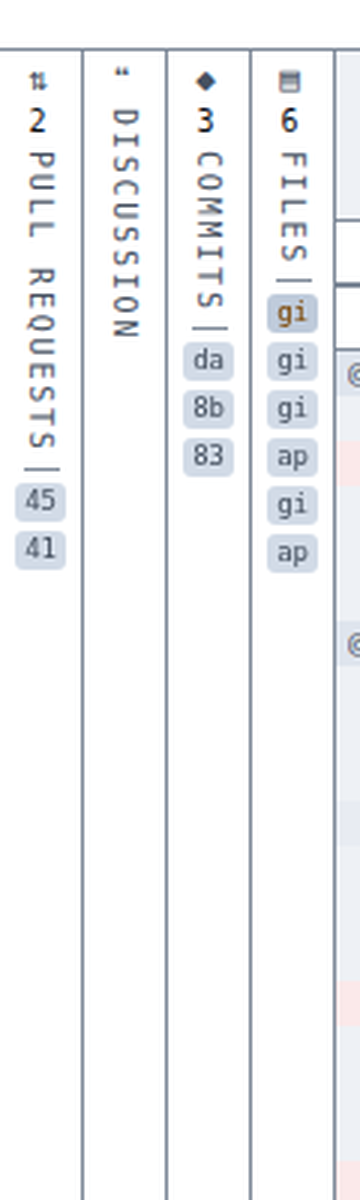
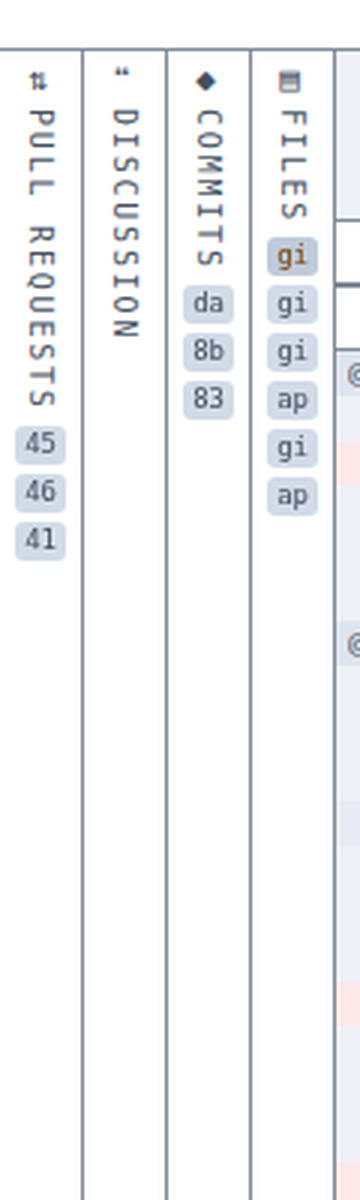
Drop counts and the divider from column labels
Claude-Session: https://claude.ai/code/session_0138uV19y78iem38GcWDdoBK

Changed region(s): [[0.7333, 0.0617, 0.8861, 0.4933], [0.0306, 0.0617, 0.1833, 0.4933], [0.4889, 0.0617, 0.6722, 0.4008]]

diff --git a/src/features/pull-requests/ResizableColumn.tsx b/src/features/pull-requests/ResizableColumn.tsx
@@ -1,7 +1,6 @@
 'use client';
 
 import { useCallback, type PointerEvent as ReactPointerEvent, type ReactNode } from 'react';
-import { plural } from './ColumnPreview';
 import { SelectableRow } from '@/features/surface-ui/SelectableRow';
 
 const MIN_WIDTH = 140;
@@ -46,16 +45,12 @@ export function DragHandle({ onPointerDown }: { onPointerDown: (event: ReactPoin
 }
 
 export function CollapsedColumn({
-  noun,
-  label,
-  count,
+  title,
   icon,
   preview,
   onExpand,
 }: {
-  noun: string;
-  label: string;
-  count?: number;
+  title: string;
   icon: string;
   preview?: ReactNode;
   onExpand: () => void;
@@ -64,24 +59,23 @@ export function CollapsedColumn({
     <button
       type="button"
       onClick={onExpand}
-      aria-label={`Expand ${label}`}
+      aria-label={`Expand ${title}`}
       className="flex w-7 min-h-0 shrink-0 flex-col items-center gap-1 border-r border-panel-edge bg-panel py-1 text-[10px] uppercase tracking-[0.18em] text-ink-dim hover:bg-btn-hover hover:text-ink"
     >
       <span aria-hidden className="shrink-0 text-[11px] leading-none">{icon}</span>
-      {count !== undefined && <span className="shrink-0 text-[10px] leading-none tabular-nums text-ink">{count}</span>}
-      <span className="max-h-[40%] shrink-0 overflow-hidden [writing-mode:vertical-rl]">{noun}</span>
+      <span className="max-h-[40%] shrink-0 overflow-hidden [writing-mode:vertical-rl]">{title}</span>
       {preview}
     </button>
   );
 }
 
 export function ColumnHeader({
-  label,
+  title,
   icon,
   note,
   onCollapse,
 }: {
-  label: string;
+  title: string;
   icon: string;
   note?: string;
   onCollapse: () => void;
@@ -89,11 +83,11 @@ export function ColumnHeader({
   return (
     <SelectableRow
       onActivate={onCollapse}
-      label={`Collapse ${label}`}
+      label={`Collapse ${title}`}
       className="flex w-full shrink-0 items-center gap-1.5 border-b border-panel-edge bg-panel px-1.5 py-[1px] text-left hover:bg-btn-hover"
     >
       <span aria-hidden className="shrink-0 text-[11px] leading-4 text-ink-dim">{icon}</span>
-      <span className="shrink-0 text-[10px] uppercase tracking-[0.18em] text-ink-dim">{label}</span>
+      <span className="shrink-0 text-[10px] uppercase tracking-[0.18em] text-ink-dim">{title}</span>
       {note && <span className="min-w-0 flex-1 truncate text-[10px] text-ink-dim">{note}</span>}
       <span aria-hidden className="ml-auto shrink-0 px-1 text-[11px] leading-none text-ink-dim">‹</span>
     </SelectableRow>
@@ -102,7 +96,6 @@ export function ColumnHeader({
 
 export function ResizableColumn({
   title,
-  count,
   icon,
   note,
   preview,
@@ -111,7 +104,6 @@ export function ResizableColumn({
   children,
 }: {
   title: string;
-  count?: number;
   icon: string;
   note?: string;
   preview?: ReactNode;
@@ -120,14 +112,10 @@ export function ResizableColumn({
   children: ReactNode;
 }) {
   const startDrag = useDragWidth(size, onSize);
-  const noun = count === undefined ? title : plural(title, count);
-  const label = count === undefined ? noun : `${count} ${noun}`;
   if (!size.open)
     return (
       <CollapsedColumn
-        noun={noun}
-        label={label}
-        count={count}
+        title={title}
         icon={icon}
         preview={preview}
         onExpand={() => onSize({ ...size, open: true })}
@@ -138,7 +126,7 @@ export function ResizableColumn({
       className="relative flex min-h-0 shrink-0 flex-col border-r border-panel-edge bg-panel"
       style={{ width: size.width }}
     >
-      <ColumnHeader label={label} icon={icon} note={note} onCollapse={() => onSize({ ...size, open: false })} />
+      <ColumnHeader title={title} icon={icon} note={note} onCollapse={() => onSize({ ...size, open: false })} />
       <div className="min-h-0 flex-1 overflow-auto">{children}</div>
       <DragHandle onPointerDown={startDrag} />
     </section>

diff --git a/src/features/pull-requests/ColumnPreview.tsx b/src/features/pull-requests/ColumnPreview.tsx
@@ -9,28 +9,21 @@ export interface PreviewToken {
   accent?: boolean;
 }
 
-export function plural(noun: string, count: number): string {
-  return count === 1 ? noun : `${noun}s`;
-}
-
 export function ColumnPreview({ tokens }: { tokens: PreviewToken[] }) {
   if (tokens.length === 0) return null;
   return (
-    <>
-      <span aria-hidden className="h-px w-3 shrink-0 bg-panel-edge" />
-      <span className="flex min-h-0 flex-1 flex-col items-center gap-[3px] overflow-hidden [mask-image:linear-gradient(to_bottom,black_calc(100%-20px),transparent)]">
-        {tokens.slice(0, MAX_TOKENS).map((token) => (
-          <span
-            key={token.key}
-            title={token.title}
-            className={`shrink-0 rounded-[3px] px-[3px] py-[2px] font-mono text-[9px] leading-none tracking-tight normal-case ${
-              token.accent ? 'bg-btn-active text-accent' : 'bg-btn-hover text-ink-dim'
-            }`}
-          >
-            {token.label}
-          </span>
-        ))}
-      </span>
-    </>
+    <span className="flex min-h-0 flex-1 flex-col items-center gap-[3px] overflow-hidden [mask-image:linear-gradient(to_bottom,black_calc(100%-20px),transparent)]">
+      {tokens.slice(0, MAX_TOKENS).map((token) => (
+        <span
+          key={token.key}
+          title={token.title}
+          className={`shrink-0 rounded-[3px] px-[3px] py-[2px] font-mono text-[9px] leading-none tracking-tight normal-case ${
+            token.accent ? 'bg-btn-active text-accent' : 'bg-btn-hover text-ink-dim'
+          }`}
+        >
+          {token.label}
+        </span>
+      ))}
+    </span>
   );
 }

diff --git a/src/features/pull-requests/PullRequestView.tsx b/src/features/pull-requests/PullRequestView.tsx
@@ -80,8 +80,7 @@ export function PullRequestView({
         </ResizableColumn>
         <ResizableColumn
           icon="◆"
-          title="commit"
-          count={pull.commits.length}
+          title="commits"
           preview={<ColumnPreview tokens={pull.commits.map((commit) => commitToken(commit, selection))} />}
           size={commitSize}
           onSize={setCommitSize}
@@ -109,8 +108,7 @@ export function PullRequestView({
         </ResizableColumn>
         <ResizableColumn
           icon="▤"
-          title="file"
-          count={fileSet?.files.length}
+          title="files"
           preview={<ColumnPreview tokens={(fileSet?.files ?? []).map((file) => fileToken(file, path))} />}
           size={fileSize}
           onSize={setFileSize}

diff --git a/src/features/pull-requests/PullListColumn.tsx b/src/features/pull-requests/PullListColumn.tsx
@@ -27,8 +27,7 @@ export function RepoPullsColumn({ owner, repo, number, size, onSize }: PullColum
   return (
     <ResizableColumn
       icon={ICON}
-      title="pull request"
-      count={pulls?.length}
+      title="pull requests"
       preview={<ColumnPreview tokens={(pulls ?? []).map((pull) => pullToken(pull, `${owner}/${repo}`, pull.number === number))} />}
       size={size}
       onSize={onSize}
@@ -44,8 +43,7 @@ export function AllPullsColumn({ owner, repo, number, size, onSize }: PullColumn
   return (
     <ResizableColumn
       icon={ICON}
-      title="pull request"
-      count={pulls?.length}
+      title="pull requests"
       preview={
         <ColumnPreview
           tokens={(pulls ?? []).map((pull) =>
